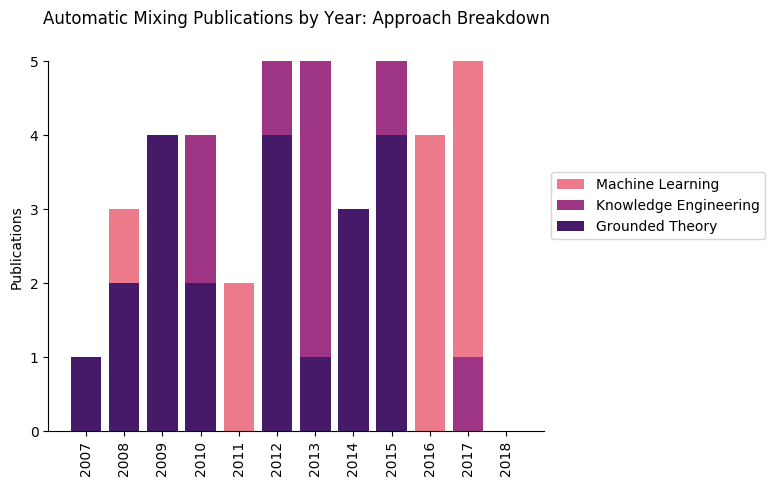
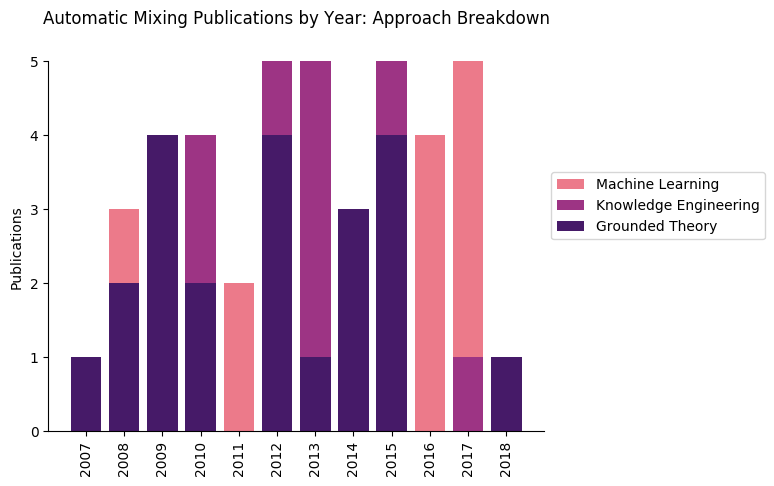
adding automatic unmasking paper

Changed region(s): [[0.6202, 0.7099, 0.6822, 0.8951]]

diff --git a/README.md b/README.md
@@ -73,6 +73,7 @@ If related code or additional resources are available for the publication a link
 ## Integrated
 |Year|Title|Authors|Approach|Resources|
 |---|---|---|---|---|
+|2018|[Automatic minimisation of masking in multitrack audio using subgroups](https://arxiv.org/abs/1803.09960)|D. Ronan, Z. Ma, P. Mc Namara, H. Gunes, and J. D. Reiss|GT|[Yes](https://code.soundsoftware.ac.uk/projects/automatic-minimisation-of-masking-in-multitrack-audio-using-subgroups)|
 |2017|[Towards an automated multitrack mixing tool using answer set programming](http://smc2017.aalto.fi/media/materials/proceedings/SMC17_p422.pdf)|F. Everardo|KE|No|
 |2017|[Analysis and prediction of the audio feature space when mixing raw recordings into individual stems](http://www.aes.org/e-lib/browse.cfm?elib=19245)|M. A. Martínez Ramírez and J. D. Reiss|ML|[Yes](https://github.com/mchijmma/audioFeatures-stemMixing)|
 |2016|[New sonorities for jazz recordings: Separation and mixing using deep neural networks](http://c4dm.eecs.qmul.ac.uk/events/wimp2/Mimilakis.pdf)|S. I. Mimilakis et al.|ML|[Yes](https://github.com/Js-Mim/aes_wimp)|
